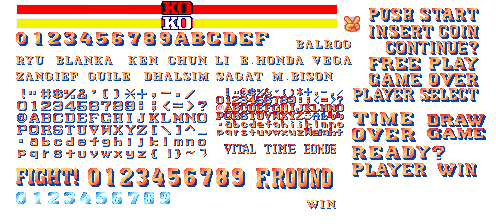
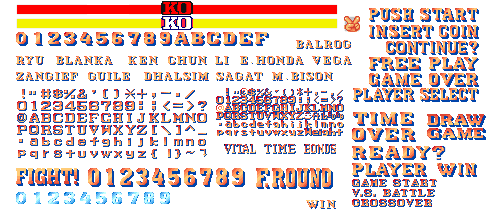
Add files via upload

Changed region(s): [[0.6956, 0.7812, 0.877, 0.9375]]

diff --git a/js/sf2.js b/js/sf2.js
@@ -22,12 +22,8 @@ const numerosTemps = [
 // array amb les imatges dels escenaris
 const escenaris = [
     { frames: escenari_campana, imatge: 'img/backgrounds/bg1.png' },
-    { frames: escenari_vegas, imatge: 'img/backgrounds/bg2.png' },
-    { frames: escenari_termas, imatge: 'img/backgrounds/bg3.png' },
-    { frames: escenari_templo, imatge: 'img/backgrounds/bg4.png' },
     { frames: escenari_comunista, imatge: 'img/backgrounds/bg5.png' },
     { frames: escenari_elefantes, imatge: 'img/backgrounds/bg6.png' },
-    { frames: escenari_barco, imatge: 'img/backgrounds/bg7.png' }
 ];
 
 
@@ -91,7 +87,8 @@ let player1 = function (x, y, width, height, imatge, barraVida) {
     this.velocitat = 3;
     this.dreta = true;
     this.frameContador = 0;
-    this.frameDelay = 8;
+    this.frameDelay = 7;
+    this.frameDelaySpecial = 3;
 
     this.base = false;
     this.victoria1 = false;
@@ -111,6 +108,14 @@ let player1 = function (x, y, width, height, imatge, barraVida) {
     this.mostrarWinGran = false;
     this.esta_saltant = false;
     this.esta_aterritzant = false;
+
+    this.danyPunyetazo = 15;
+    this.danyPatada = 10;
+    this.danyCopEspecial = 20;
+    this.danyBase = 0;
+    this.repPatada = false;
+    this.repCopEspecial = false;
+    this.repPunyetazo = false;
 
     let sprite = new Image();
     sprite.src = this.imatge;
@@ -136,6 +141,11 @@ let player1 = function (x, y, width, height, imatge, barraVida) {
         //base
         if (this.canvas_h == 98) {
             this.y = 122;
+        }
+
+        // cop especial
+        if (this.canvas_h == 84) {
+            this.y = 135;
         }
 
 
@@ -302,7 +312,7 @@ let player1 = function (x, y, width, height, imatge, barraVida) {
                 this.frameContador++;
             }
         } else if (this.cop_especial) {
-            if (this.frameContador >= this.frameDelay) {
+            if (this.frameContador >= this.frameDelaySpecial) {
                 currentFrame = (currentFrame + 1) % blanka_cop_especial.length;
                 frame = blanka_cop_especial[currentFrame];
 
@@ -380,6 +390,14 @@ let player2 = function (x, y, width, height, imatge, barraVida) {
     this.mostrarWinGran = false;
     this.esta_saltant = false;
     this.esta_aterritzant = false;
+
+    this.danyPunyetazo = 15;
+    this.danyPatada = 10;
+    this.danyCopEspecial = 20;
+    this.danyBase = 0;
+    this.repPatada = false;
+    this.repCopEspecial = false;
+    this.repPunyetazo = false;
 
     let sprite = new Image();
     sprite.src = this.imatge;
@@ -566,6 +584,8 @@ let player2 = function (x, y, width, height, imatge, barraVida) {
                 if (currentFrame === m_bison_cop_especial.length - 1) {
                     this.cop_especial = false;
                 }
+
+                this.x -= this.velocitat + 20;
 
             } else {
                 this.frameContador++;
@@ -831,6 +851,7 @@ function inici() {
     ctx = canvas.getContext('2d');
 
     principal();
+    stage_mbison.play();
 }
 
 // crida de metodes i elements de pantalla
@@ -940,6 +961,8 @@ function principal() {
 
     controlarVida();
     dibuixarVictories();
+
+
 
     // ready_text.animacio();
     // fight_text.animacio();

diff --git a/js/personatges/blanka.js b/js/personatges/blanka.js
@@ -31,14 +31,6 @@ let blanka_victoria2 = [
     {x: 1679, y: 2076, width: 103, height: 95}
 ];
 
-let blanka_derrota = [
-    {x: 509, y: 1928, width: 96, height: 102},
-    {x: 615, y: 1928, width: 118, height: 102},
-    {x: 742, y: 1928, width: 127, height: 102},
-    {x: 879, y: 1928, width: 163, height: 102},
-    {x: 1049, y: 1928, width: 177, height: 102}
-];
-
 let blanka_agochat = [
     {x: 1478, y: 132, width: 93, height: 87 },
     {x: 1580, y: 132, width: 86, height: 87 },
@@ -74,9 +66,15 @@ let blanka_cop_puny = [
 ];
 
 let blanka_cop_especial = [
-    {x: 16, y: 1000, width: 84, height: 84},
-    {x: 121, y: 1000, width: 96, height: 84},
-    {x: 245, y: 1000, width: 167, height: 84}
+    {x: 4, y: 1246, width: 93, height: 84},
+    {x: 106, y: 1246, width: 86, height: 84},
+    {x: 199, y: 1246, width: 136, height: 84},
+    {x: 344, y: 1246, width: 85, height: 84},
+    {x: 199, y: 1246, width: 136, height: 84},
+    {x: 344, y: 1246, width: 85, height: 84},
+    {x: 199, y: 1246, width: 136, height: 84},
+    {x: 344, y: 1246, width: 85, height: 84},
+    {x: 4, y: 1246, width: 93, height: 84}
 ];
 
 let blanka_patada = [
@@ -85,4 +83,25 @@ let blanka_patada = [
     {x: 486, y: 733, width: 102, height: 85},
     {x: 621, y: 733, width: 125, height: 85},
     {x: 621, y: 733, width: 125, height: 85}
+];
+
+let blanka_derrota = [
+    {x: 509, y: 1928, width: 96, height: 102},
+    {x: 615, y: 1928, width: 118, height: 102},
+    {x: 742, y: 1928, width: 127, height: 102},
+    {x: 879, y: 1928, width: 163, height: 102},
+    {x: 1049, y: 1928, width: 177, height: 102}
+];
+
+let blanka_rep_patada = [
+    {x: 448, y: 1625, width: 96, height: 91},
+    {x: 549, y: 1625, width: 100, height: 91},
+    {x: 655, y: 1625, width: 106, height: 91},
+    {x: 767, y: 1625, width: 96, height: 91}
+];
+
+let blanka_rep_punyetazo = [
+    {x: 869, y: 1662, width: 307, height: 94},
+    {x: 958, y: 1430, width: 101, height: 94},
+    {x: 1067, y: 1430, width: 109, height: 94}
 ];

diff --git a/js/musica_sonidos/musica_escenaris.js b/js/musica_sonidos/musica_escenaris.js
@@ -1,13 +1,7 @@
-var stage_blanka;
 var stage_mbison;
 
 document.addEventListener("DOMContentLoaded", inici);
 function inici(){
-    stage_blanka = new Howl({
-        src: ['audios/musica/blanka.mp3'],
-        loop: true
-    });
-
     stage_mbison = new Howl({
         src: ['audios/musica/mbison.mp3'],
         loop: true
@@ -17,25 +11,21 @@ function inici(){
 }
 
 function iniciar_musica_escenaris(){
+    let controlMusica = true;
+    
     document.addEventListener('keydown', (tecla)=>{
-        if(tecla.key == 'b'){
-            console.log("Reproduint musica del escenari Blanka");
-            stage_blanka.play();
-        } else if(tecla.key == 'v'){
-            console.log("Reproduint musica del escenari Bison");
-            stage_mbison.play();
-        }
-
-        if(tecla.key == 'ñ'){
-            console.log("Pausant musica del escenari");
-            stage_blanka.pause();
-            stage_mbison.pause();
-        }
 
         if (tecla.key == 's'){
-            console.log("Aturant del tot cualsevol musica d'escenari");
-            stage_blanka.stop();
-            stage_mbison.stop();
+            console.log(controlMusica)
+            if(controlMusica){
+                console.log("Aturant musica d'escenari");
+                stage_mbison.pause();
+                controlMusica = false;
+            }else{
+            console.log("Activant musica d'escenari");
+            stage_mbison.play();
+            controlMusica = true;
+            }
         }
     });
 }

diff --git a/js/personatges/m_bison.js b/js/personatges/m_bison.js
@@ -100,3 +100,26 @@ let m_bison_endarrere = [
     { x: 425, y: 25, width: 68, height: 102 },
     { x: 346, y: 25, width: 66, height: 102 }
 ];
+
+let m_bison_electrocutat = [
+    { x: 1840, y: 145, width: 94, height: 112 },
+    { x: 1946, y: 145, width: 105, height: 112 },
+    { x: 1840, y: 145, width: 94, height: 112 },
+    { x: 1946, y: 145, width: 105, height: 112 },    
+    { x: 1840, y: 145, width: 94, height: 112 },
+    { x: 1946, y: 145, width: 105, height: 112 },
+    {x: 1840, y: 145, width: 94, height: 112 } 
+];
+
+let m_bison_rep_patada = [
+    { x: 1133, y: 401, width: 103, height: 96 },
+    { x: 1252, y: 401, width: 107, height: 96 },
+    { x: 1373, y: 401, width: 112, height: 96 },
+    { x: 1494, y: 401, width: 124, height: 96 }
+];
+
+let m_bison_rep_punyetazo = [
+    { x: 1465, y: 289, width: 99, height: 94 },
+    { x: 1586, y: 289, width: 92, height: 94 },
+    { x: 1693, y: 289, width: 86, height: 94 }
+];

diff --git a/js/otros/menus.js b/js/otros/menus.js
@@ -1,0 +1,17 @@
+// pantalla inicial amb opcions
+// img a la carpeta img/others/logoSf2.png
+let text_StreetFighter2 = [
+    {x: 16, y: 21, width: 288, height: 111} 
+];
+
+let text_game_start = [
+    {x: 352, y: 179, width: 85, height: 8} 
+];
+
+let text_vs_battle = [
+    {x: 352, y: 189, width: 83, height: 8} 
+];
+
+let text_crossover = [
+    {x: 352, y: 199, width: 80, height: 8} 
+];
